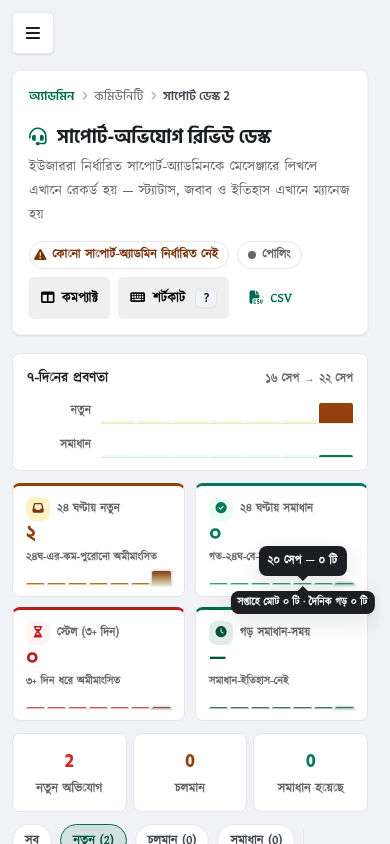
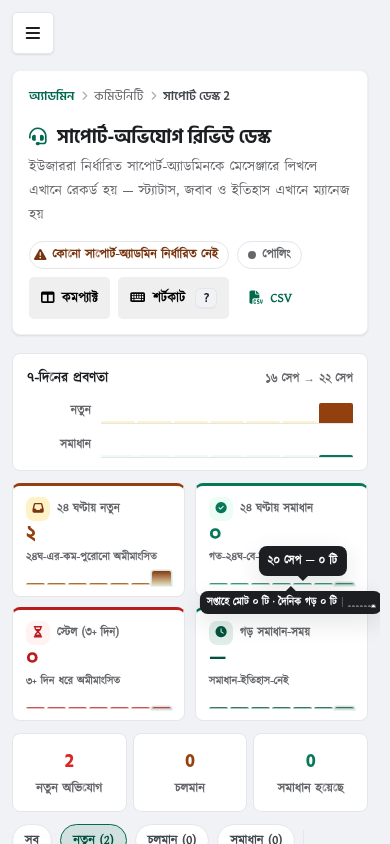
session234: Express support-center চিপে ৭-দিন-মিনি-বার-স্ট্রিপ প্যাক — ফিচার: data-bars কাঁচা-সিরিজ-CSV হুক (EJS-এক-উৎস ×৬-হোস্ট; ক্লায়েন্ট-শুধু-রেন্ডার — বাংলা-সংখ্যা-পার্স-নিষিদ্ধ-রীতি) + #scSparkTipWk-এ DOM-API-মিনি-স্ট্রিপ (createElement/className/style.height — innerHTML-নিষিদ্ধ-রীতি-অটুট; lab

Changed region(s): [[0.4923, 0.6777, 0.9846, 0.7393]]

diff --git a/lekhok-forum/PLANS.md b/lekhok-forum/PLANS.md
@@ -2592,3 +2592,11 @@ push-পূর্ব rebase-এ (f629b06) দেখা যায় আরেক
 - **ইনফ্রা-চুক্তি (LEKHOK_ROOT):** সেমান্টিক্স = **রিপো-রুট** (ensure-server.sh self-relative-ডিফল্ট; সুইটে ROOT="${LEKHOK_ROOT:-/home/z/lekhok-forum}", APP=$ROOT/lekhok-forum) — স্যান্ডবক্স-পুনঃসূচনায় `LEKHOK_ROOT=<clone-root> bash tests/s233-tap-suite.sh`।
 - **E2E-গোটচা ×২ (নতুন):** ① **২px-স্টাব-বারে রিয়েল-ক্লিক পার্শ্ববর্তী-<a>-তে-পড়ে** — elementFromPoint `<i>` দেখালেও agent-browser-রিয়েল-ক্লিক মিস-করে → রিয়েল-ক্লিক-টেস্টে **তল-বার (i.today/span.today — ১৪-২০px)** ব্যবহার-করুন; স্টাব-বারের ট্যাপ-যাচাই = সিনথেটিক-click dispatchEvent (pointer-শূন্য)। ② **পুরোনো-সুইটে textContent-সমতা-অ্যাসার্ট থাকলে নতুন-ভিজ্যুয়াল-টেক্সট ওই-এলিমেন্টে-যোগ-নয়** — সিবলিং-এলিমেন্টে (s233-চিপ-প্যাটার্ন) — নইলে প্রাক্তন-সেশনের-অ্যাসার্ট ভাঙে।
 - **পরের-এজেন্ট: session234 থেকে।** বাকি-প্রস্তাব: Turso/প্রোড-পোর্ট (পরিকল্পনা-গেটে-অক্ষুণ্ণ), চিপে ৭-দিন-মিনি-বার-স্ট্রিপ (ভিজ্যুয়াল), টুলটিপ-রিলোড-পারসিস্টেন্স; সুইট-বর্ধনে s233/s232-ই-বেস; AGENT-NOTICE-চেকলিস্ট-মানুন।
+
+### session234 — চিপে ৭-দিন-মিনি-বার-স্ট্রিপ (cross-agent নোট)
+
+- **data-bars-চুক্তি:** হোস্টে (৪-স্পার্ক+২-ট্রেন্ড) `data-bars="n,n,n,n,n,n,n"` **কাঁচা-সংখ্যা-CSV** (EJS-এক-উৎস — trend7-সিরিজ; ক্লায়েন্ট-গণনা/বাংলা-সংখ্যা-পার্স-নিষিদ্ধ); নতুন-সিরিজ-গ্রাহকে data-bars-ও-দিন (data-wk-সহ); স্ট্রিপ-উচ্চতা = `Math.max(3, round(n/mx*10))`, শূন্যে ২px-স্টাব।
+- **চিপ-নির্মাণ-চুক্তি:** প্রতি-tipShow-এ **while(firstChild) removeChild**-পুনঃনির্মাণ (DOM-API-শুধু — innerHTML-নিষিদ্ধ-রীতি-অটুট); কাঠামো = `span.sc-tip-wklbl` (textContent = data-wk **হুবহু** — wkEl.textContent-সমতা s233/s232-অ্যাসার্ট-রক্ষার-মূল) + `span.sc-tip-strip` (৭×`i`, ষষ্ঠ = `.today`)।
+- **ক্ল্যাম্প-চুক্তি (গুরুত্বপূর্ণ):** চিপ = tip-অপেক্ষা-প্রশস্ত (স্ট্রিপ-যোগে) → **offsetWidth-মাপা-পরে** `left = clamp(বার-কেন্দ্র, ww/2+8, innerWidth-ww/2-8)` — নইলে ডান/বাম-প্রান্তের-বারে চিপ-কাটা (s234-প্রথম-স্ক্রিনশটে-ধরা); tip-এর-নিজ-ক্ল্যাম্প (≥70) আলাদা-অক্ষুণ্ণ — দুটো-কেন্দ্র-সামান্য-বিচ্যুত-হতে-পারে (গৃহীত — s232-সেমান্টিক্স)।
+- **E2E-গোটচা ×১ (নতুন):** **স্ক্রিনশট-চাক্ষুষ-যাচাই প্রান্ত-বারে করুন** — মাঝ-বারের-স্ক্রিনশট প্রান্ত-কাটা-ধরে-না; i.today/span.today-হোভারে স্ক্রিনশট + `getBoundingClientRect().right<=innerWidth+1`-অ্যাসার্ট-দুটোই-রাখুন।
+- **পরের-এজেন্ট: session235 থেকে।** বাকি-প্রস্তাব: Turso/প্রোড-পোর্ট (পরিকল্পনা-গেটে-অক্ষুণ্ণ), পুরোনো-stale-সুইট (scripts/test-role-policy.sh) আধুনিকীকরণ, চিপে dayLabels-মাইক্রো-টুলটিপ; সুইট-বর্ধনে s234/s233-ই-বেস; AGENT-NOTICE-চেকলিস্ট-মানুন।

diff --git a/lekhok-forum/worklog.md b/lekhok-forum/worklog.md
@@ -2106,3 +2106,20 @@ Stage Summary:
 ### ঝুঁকি ও পরবর্তী
 - Turso/প্রোড-পোর্ট = পরিকল্পনা-গেটে-অক্ষুণ্ণ; টোকেন-নীতি অক্ষুণ্ণ (V3 .secrets/-এ-সক্রিয়; মুখোশ-ছাড়া-কখনো-প্রদর্শন-নয়)
 - পরের-এজেন্ট: **session234 লেবেল**; PLANS session233-নোট পড়ুন (টাচ-চুক্তি + চিপ-চুক্তি + LEKHOK_ROOT); push-আগে fetch+rebase; নতুন-সুইট tests/ এ-কমিট-প্রথা
+
+---
+## session234 (cron 403679 — চিপে ৭-দিন-মিনি-বার-স্ট্রিপ প্যাক)
+
+### বর্তমান অবস্থা (যাচাইকৃত)
+- HEAD=origin=`25ec9f8` (session233-পুশ) থেকে রাউন্ড-শুরু; টোকেন ২০০-ভ্যালিড (GH /user + Vercel /v9); worktree-প্যাটার্ন-পুনঃব্যবহার (branch session234 = FETCH_HEAD)
+- রাউন্ড-শুরু QA: s233 **৩১/৩১** + s232 **৩৫/৩৫** + s231-desk **৩৩/৩৩** + s231-unit **১৩/১৩** + DB-জঞ্জাল-শূন্য → বাগ-শূন্য → ফিচার-রাউন্ড
+
+### এ-রাউন্ডে সম্পন্ন
+- **[Mandatory-ফিচার] চিপে ৭-দিন-মিনি-বার-স্ট্রিপ:** `data-bars` কাঁচা-সিরিজ-CSV হুক (EJS-এক-উৎস ×৬-হোস্ট — ক্লায়েন্ট-শুধু-রেন্ডার, বাংলা-সংখ্যা-পার্স-নিষিদ্ধ-রীতি-অটুট); চিপে DOM-API-নির্মাণ (createElement/className/style.height — **innerHTML-নিষিদ্ধ-রীতি-অটুট**); label-span-textContent = data-wk **হুবহু** (s233-সমতা-রক্ষা); স্পার্ক-নান্দনিকতা-সমস্বর (৪px-বার, আজ = উজ্জ্বল-সাদা+রিং, বাম-বিভাজক-রেখা)
+- **বাগ-ফিক্স (নিজ-স্ক্রিনশটে-ধরা):** স্ট্রিপে-চিপ-প্রশস্ত → ডান-প্রান্তের-বারে চিপ-ভিউপোর্টের-বাইরে-কাটা → **offsetWidth-মাপা-পরে অনুভূমিক-ক্ল্যাম্প** (half=ww/2+8) — সুইটে rOK/lOK-প্রতিগার্ড
+- **[Mandatory-স্টাইল]:** .sc-tip-wklbl/.sc-tip-strip/.today টায়ার + 640px-সংকোচন (১০px/৩px-বার)
+- **সুইট:** tests/s234-strip-suite.sh রিপো-কমিটেড — **২৭/২৭** (data-bars ×৬ + স্ট্রিপ-গঠন ৭-বার/today/২-১০px-সীমা + সমতা-রক্ষা + ক্ল্যাম্প-প্রতিগার্ড + 390px + কনসোল); রিগ্রেশন s233 **৩১/৩১** + s232 **৩৫/৩৫** + s231-desk **৩৩/৩৩** + s231-unit **১৩/১৩**; স্ক্রিনশট ×২; secret-scan-ক্লিন
+
+### ঝুঁকি ও পরবর্তী
+- Turso/প্রোড-পোর্ট = পরিকল্পনা-গেটে-অক্ষুণ্ণ; টোকেন-নীতি অক্ষুণ্ণ (V3 .secrets/-এ-সক্রিয়)
+- পরের-এজেন্ট: **session235 লেবেল**; PLANS session234-নোট পড়ুন; push-আগে fetch+rebase; নতুন-সুইট tests/ এ-কমিট-প্রথা
